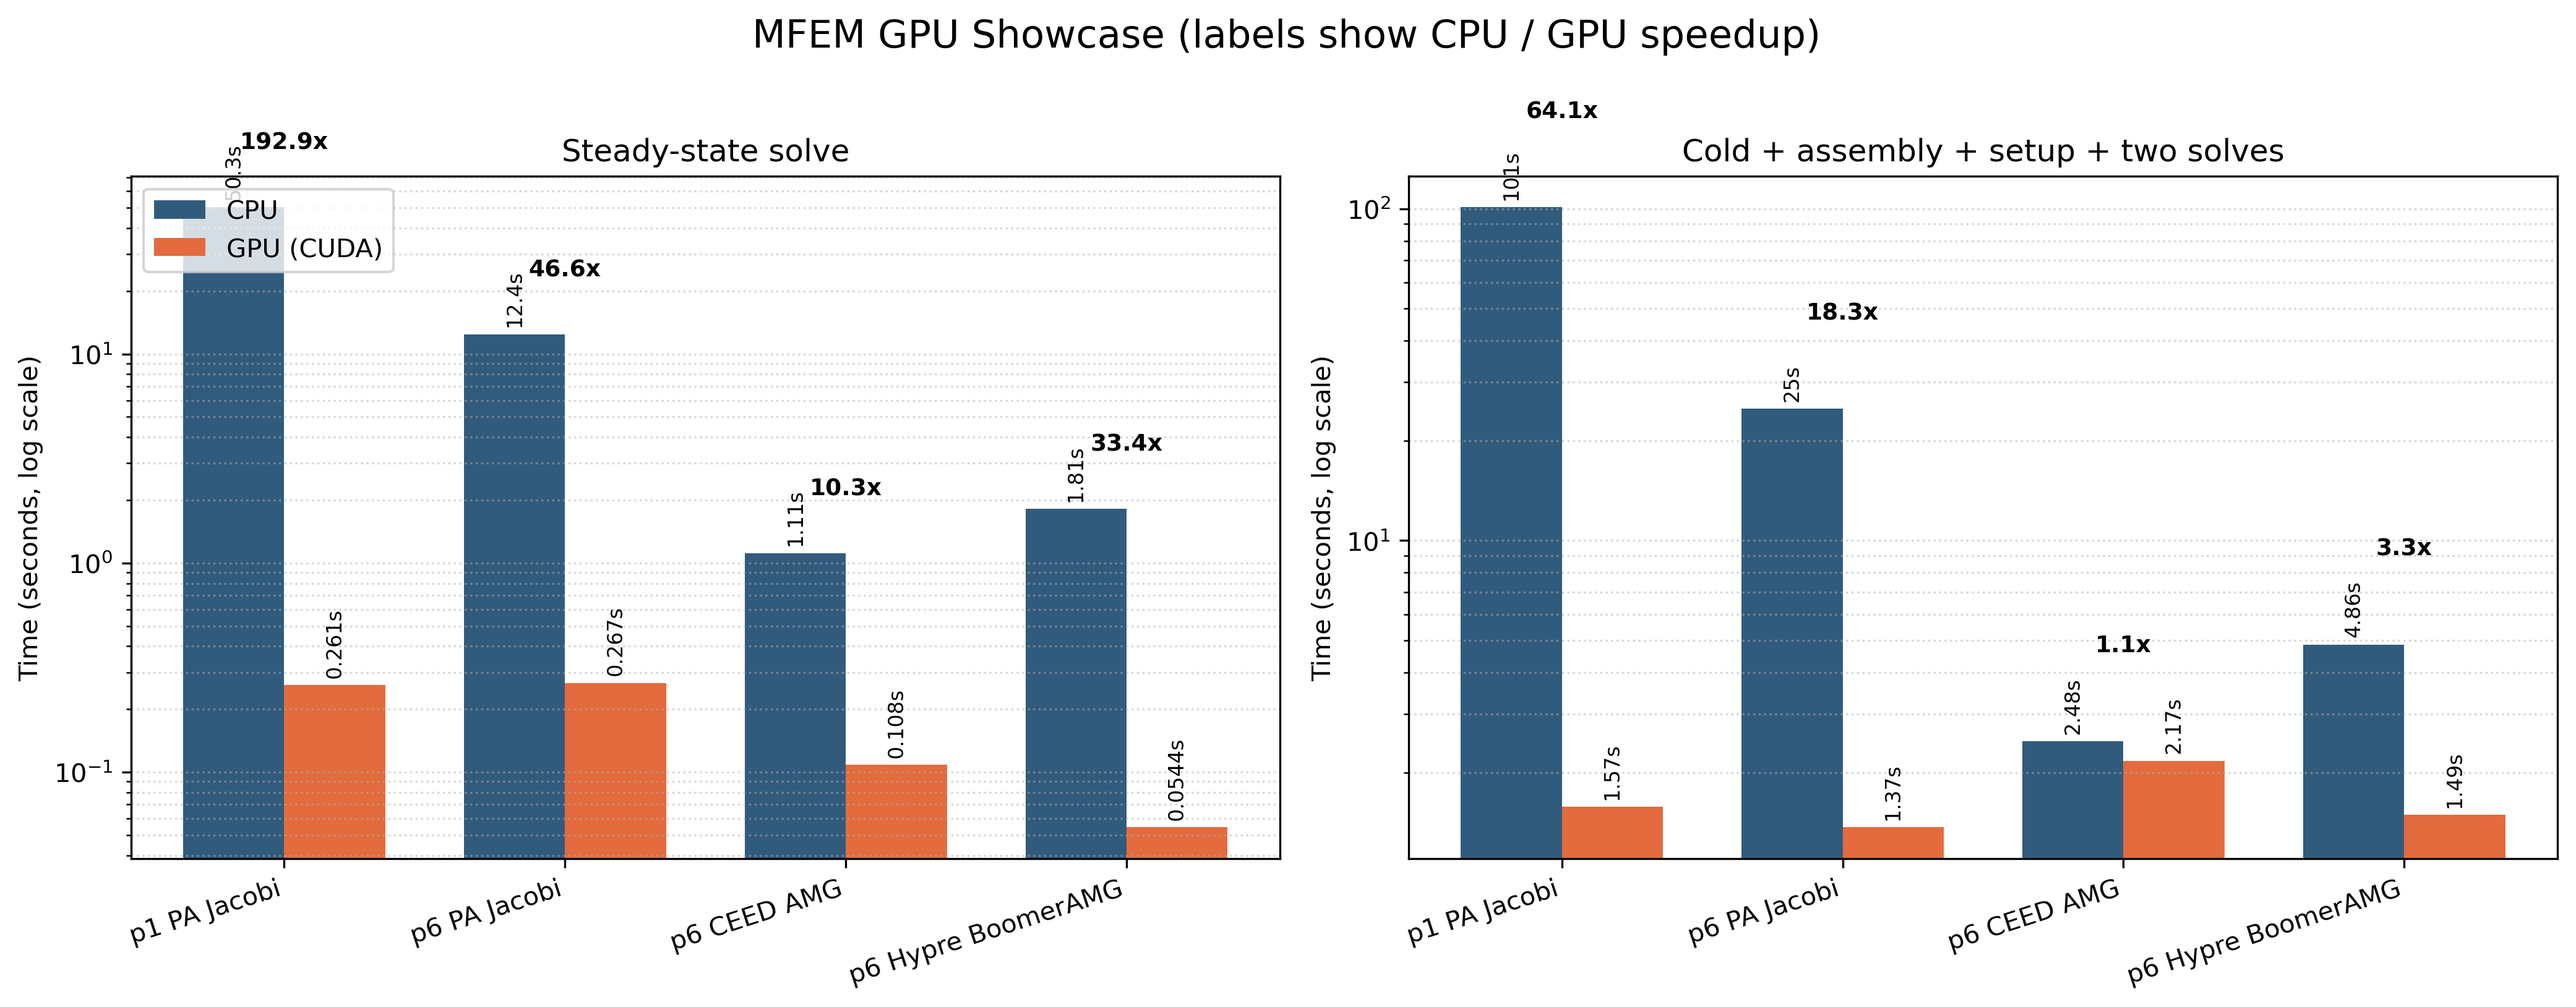
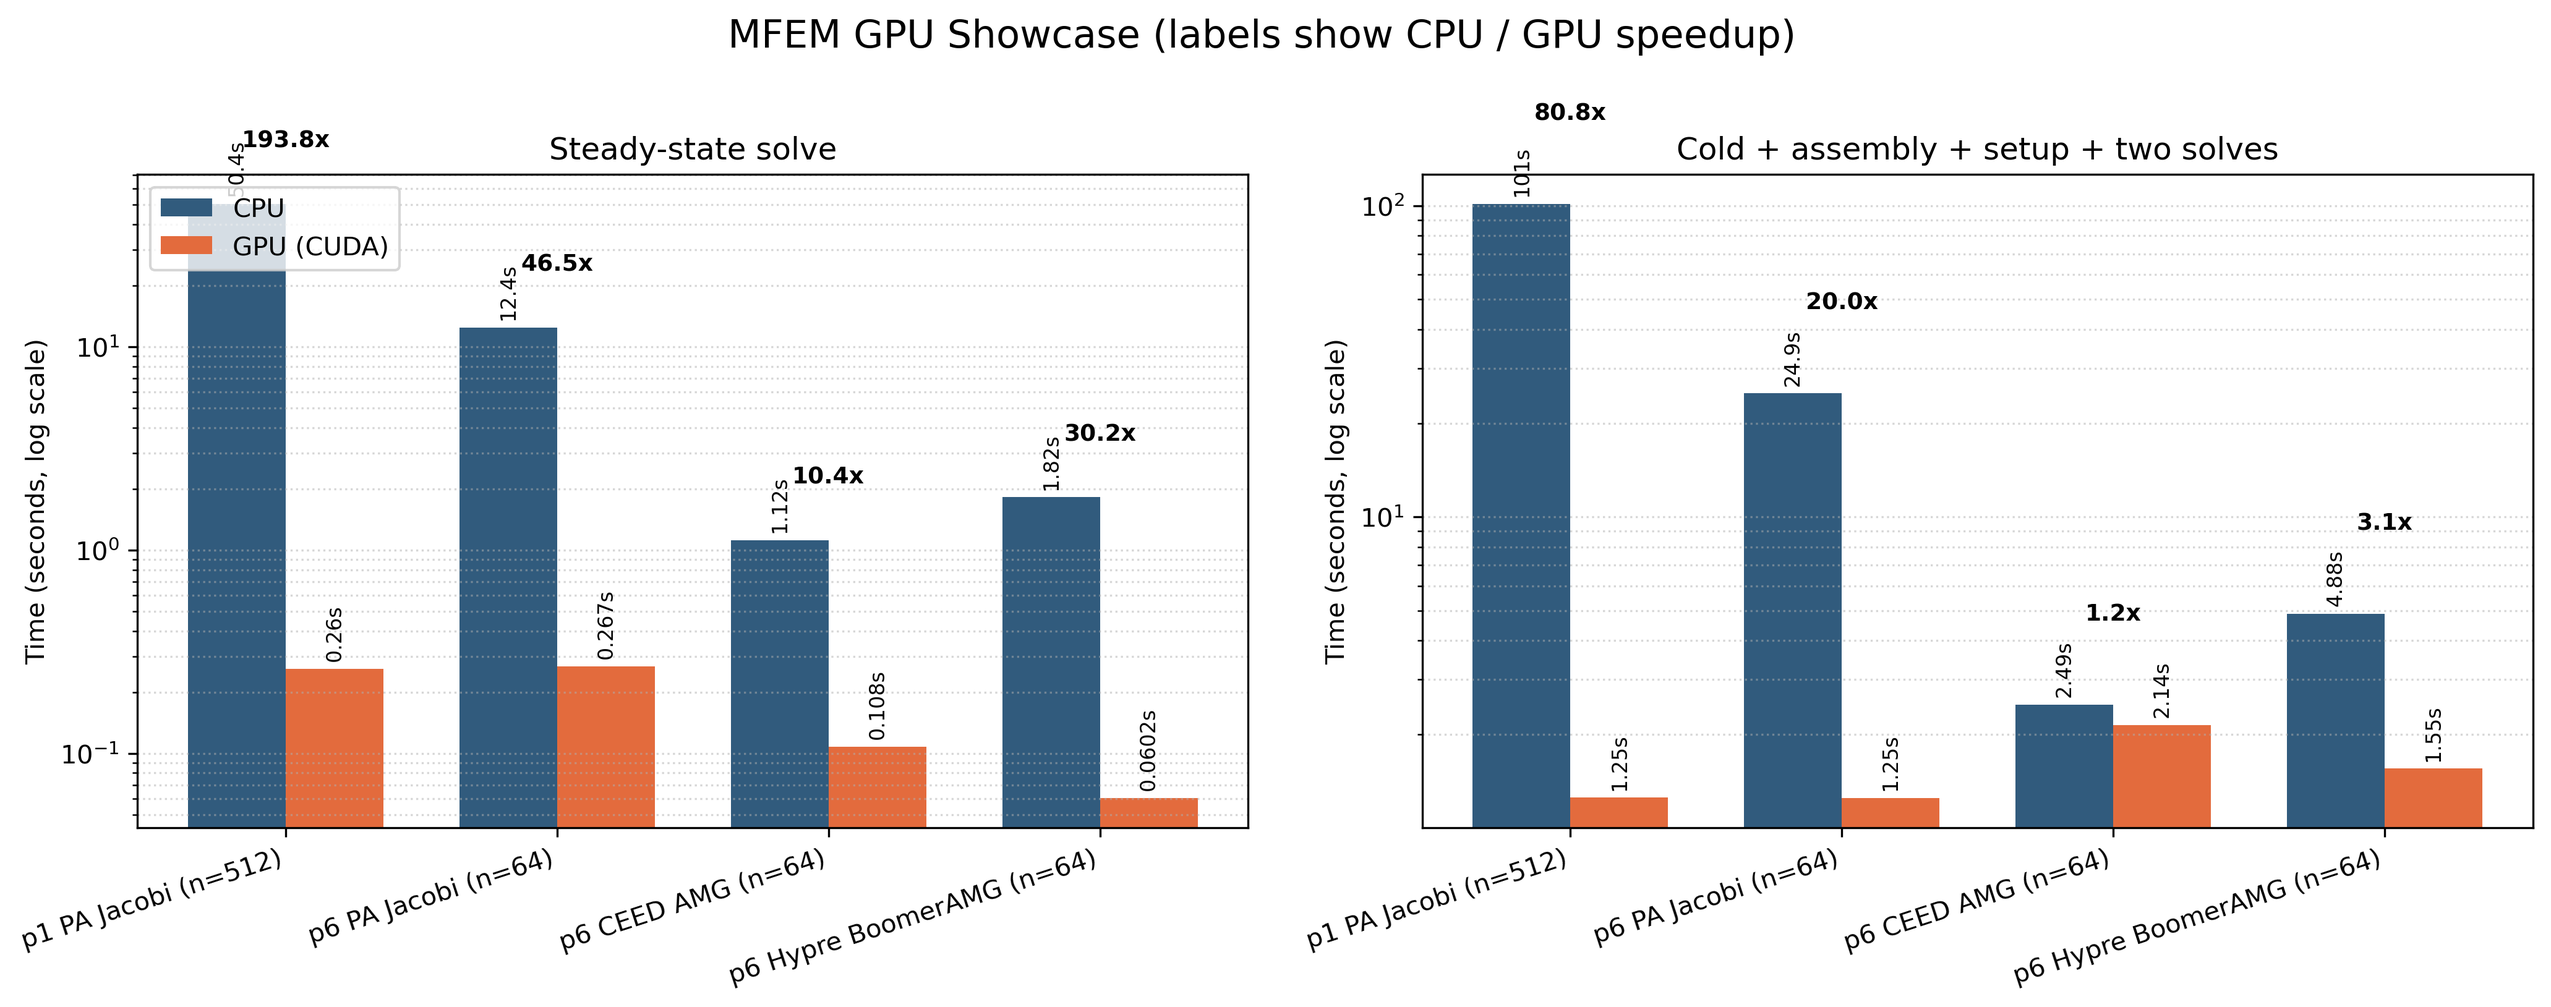
Show mesh size in showcase case labels
case_name now appends "(n=<size>)" so both the CSV case column and
the two PNG plots identify which mesh each row was run on. Regenerated
CSV + PNGs from a fresh mom-01 run; README numbers refreshed to match
(within a few percent of the previous run — p1 full-pipeline speedup
happened to land at 81x vs 64x this time because CUDA cold start and
first-touch assembly were faster; the qualitative story is unchanged).

diff --git a/python_script/gpu_showcase.py b/python_script/gpu_showcase.py
@@ -79,14 +79,14 @@ def parse_args() -> argparse.Namespace:
     return args
 
 
-def case_name(order: int, solver: str) -> str:
-    return f"p{order} {SOLVERS[solver]['label']}"
+def case_name(order: int, size: int, solver: str) -> str:
+    return f"p{order} {SOLVERS[solver]['label']} (n={size})"
 
 
 def convert_result(result: ProfileResult) -> ShowcaseResult:
     hierarchy = "Q6 -> Q3 -> Q1 -> Q3 -> Q6" if result.solver == "ceed-amg" else "n/a"
     return ShowcaseResult(
-        case=case_name(result.order, result.solver),
+        case=case_name(result.order, result.n, result.solver),
         hierarchy=hierarchy,
         device=result.device,
         solver=result.solver,

diff --git a/python_script/gpu_showcase_results/README.md b/python_script/gpu_showcase_results/README.md
@@ -8,10 +8,10 @@ and the phased profiler it wraps. Times are seconds; "speedup" is CPU / CUDA.
 
 | Case                    |     DOFs |   iters | steady solve (CPU→CUDA) | full pipeline (CPU→CUDA) |
 |-------------------------|---------:|--------:|-------------------------|--------------------------|
-| p1 PA Jacobi (n=512)    |  263,169 |   1,374 | 50.31s → 0.26s (**193×**) | 100.99s → 1.57s (**64×**) |
-| p6 PA Jacobi (n=64)     |  148,225 |   1,907 | 12.43s → 0.27s (**47×**)  | 24.96s → 1.37s (**18×**)  |
-| p6 CEED AMG (n=64)      |  148,225 | 18 / 72 | 1.11s → 0.11s (**10×**)   | 2.48s → 2.17s (**1.1×**)  |
-| p6 Hypre BoomerAMG (n=64)| 148,225 |   23–25 | 1.81s → 0.054s (**33×**)  | 4.86s → 1.49s (**3.3×**)  |
+| p1 PA Jacobi (n=512)    |  263,169 |   1,374 | 50.42s → 0.26s (**194×**) | 101.18s → 1.25s (**81×**) |
+| p6 PA Jacobi (n=64)     |  148,225 |   1,907 | 12.42s → 0.27s (**47×**)  | 24.93s → 1.25s (**20×**)  |
+| p6 CEED AMG (n=64)      |  148,225 | 18 / 72 | 1.12s → 0.11s (**10×**)   | 2.49s → 2.14s (**1.2×**)  |
+| p6 Hypre BoomerAMG (n=64)| 148,225 |   23–25 | 1.82s → 0.060s (**30×**)  | 4.88s → 1.55s (**3.1×**)  |
 
 "Full pipeline" is `cold_start + assembly + setup + warmup_solve + steady_solve`.
 CEED AMG iterations differ by device — see the CEED AMG note below.
@@ -20,15 +20,15 @@ CEED AMG iterations differ by device — see the CEED AMG note below.
 
 **PA Jacobi is where the GPU dominates.** With no preconditioner setup and
 thousands of cheap CG iterations, per-iteration kernel throughput is all that
-matters. Steady-state speedups of 193× (p=1) and 47× (p=6) fall out directly.
-The full-pipeline speedups shrink to 64× and 18× because CUDA cold start
-(~0.09s) and first-touch assembly (~0.6–0.8s) are non-negligible next to a
+matters. Steady-state speedups of 194× (p=1) and 47× (p=6) fall out directly.
+The full-pipeline speedups drop to 81× and 20× because CUDA cold start
+(~0.1s) and first-touch assembly (~0.4–0.5s) are non-negligible next to a
 solve that has been sped up so aggressively.
 
 **Hypre BoomerAMG wins in solve, but assembly caps the full-pipeline gain.**
 Iteration counts match across devices (23 CUDA vs 25 CPU), the steady solve
-is 33× faster on the GPU (0.054s vs 1.81s), but the ~1s assembly is the same
-on both devices, so the full pipeline settles at 3.3×.
+is 30× faster on the GPU (0.060s vs 1.82s), but the ~1s assembly is the same
+on both devices, so the full pipeline settles at 3.1×.
 
 **CEED AMG barely wins on the full pipeline.** Two effects work against
 CUDA here:
@@ -37,9 +37,9 @@ CUDA here:
   72 on CUDA vs 18 on CPU — 4× more work per solve. The GPU still finishes
   the solve 10× faster in wall clock, but not by as much as its raw kernel
   throughput would suggest.
-- AMG setup is 6× more expensive on CUDA (1.29s vs 0.22s). Setup dominates
+- AMG setup is 6× more expensive on CUDA (1.27s vs 0.23s). Setup dominates
   the full pipeline at this problem size, so the 10× solve speedup collapses
-  to 1.1× when everything is added.
+  to 1.2× when everything is added.
 
 **Cold start is the same ~0.1s tax on every CUDA run.** It's the fixed cost
 of `Device::Configure("ceed-cuda")` (context init, libCEED JIT primer).
@@ -57,7 +57,7 @@ columns.
   JIT are amortized.
 - **Problems large enough** that the GPU's DOFs/s is not fighting the
   fixed launch overhead. The p1 PA Jacobi case (263K DOFs) makes this
-  clean because the CPU is 100s and the GPU is 1.5s end-to-end.
+  clean because the CPU is 101s and the GPU is 1.3s end-to-end.
 
 ## When the CPU is at least as good
 
